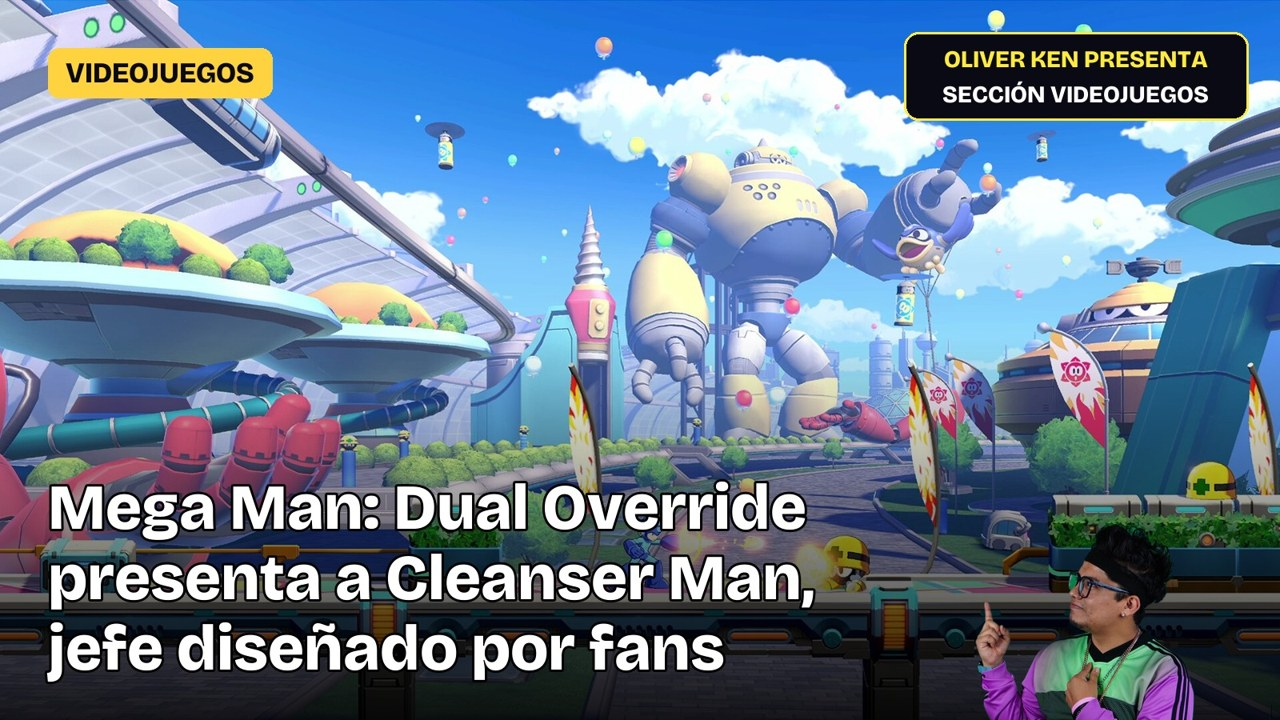
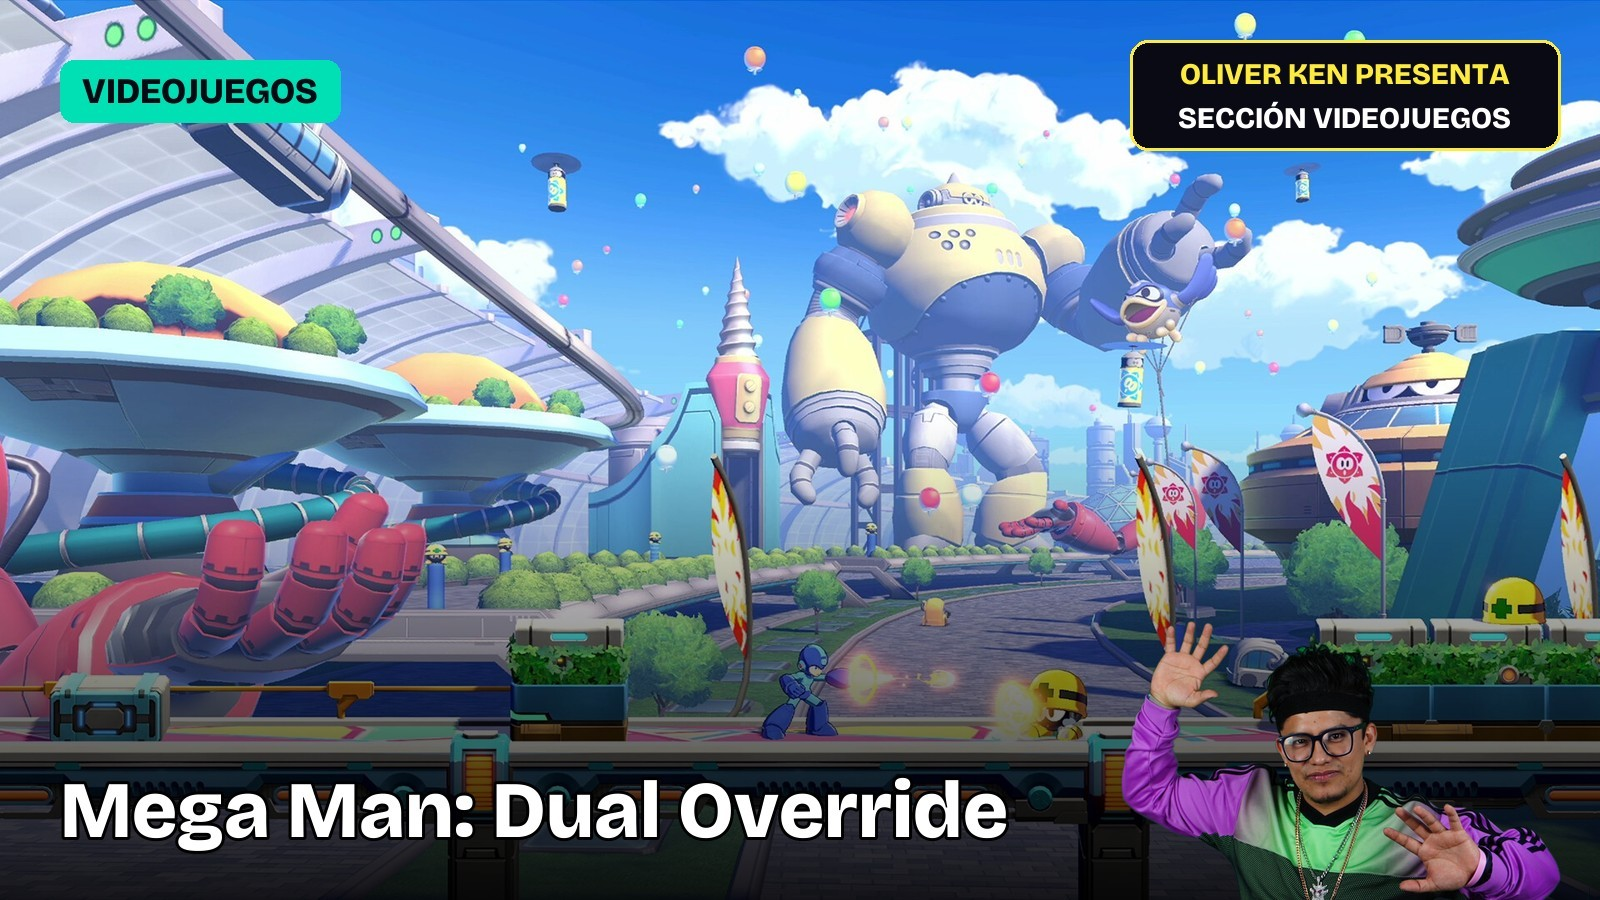
[bot] Portada — 2026-11-16 07:29

Changed region(s): [[0.0312, 0.6722, 0.6562, 0.9472], [0.6875, 0.6722, 1.0, 1.0], [0.0312, 0.0611, 0.2188, 0.1528]]

diff --git a/notas/cleanser-man-jefe-de-mega-man-disenado-por-fans-debuta-en-trailer-1116.html b/notas/cleanser-man-jefe-de-mega-man-disenado-por-fans-debuta-en-trailer-1116.html
@@ -10,8 +10,8 @@
 <meta name="twitter:description" content="Capcom presentó a Cleanser Man, el nuevo Robot Master de Mega Man: Dual Override, durante la TwitchCon 2026."><meta name="twitter:image" content="https://enelensayomedia.com/img/notas/cleanser-man-jefe-de-mega-man-disenado-por-fans-debuta-en-trailer-1116.jpg">
 <link href="https://fonts.googleapis.com/css2?family=Manrope:wght@400;600;800&family=Space+Mono:wght@400;700&display=swap" rel="stylesheet">
 <link rel="alternate" type="application/rss+xml" title="En El Ensayo Media" href="https://enelensayomedia.com/feed.xml">
-<script type="application/ld+json">{"@context": "https://schema.org", "@type": "NewsArticle", "headline": "Cleanser Man, jefe de Mega Man diseñado por fans, debuta en tráiler", "description": "Capcom presentó a Cleanser Man, el nuevo Robot Master de Mega Man: Dual Override, durante la TwitchCon 2026.", "datePublished": "2026-11-16T07:29:11", "author": {"@type": "Organization", "name": "En El Ensayo Media"}, "publisher": {"@type": "Organization", "name": "En El Ensayo Media", "url": "https://enelensayomedia.com"}, "image": ["https://enelensayomedia.com/img/notas/cleanser-man-jefe-de-mega-man-disenado-por-fans-debuta-en-trailer-1116.jpg"]}</script>
-<script type="application/ld+json">{"@context": "https://schema.org", "@type": "BreadcrumbList", "itemListElement": [{"@type": "ListItem", "position": 1, "name": "En El Ensayo Media", "item": "https://enelensayomedia.com/"}, {"@type": "ListItem", "position": 2, "name": "Reportaje", "item": "https://enelensayomedia.com/noticias.html"}, {"@type": "ListItem", "position": 3, "name": "Cleanser Man, jefe de Mega Man diseñado por fans, debuta en tráiler", "item": "https://enelensayomedia.com/notas/cleanser-man-jefe-de-mega-man-disenado-por-fans-debuta-en-trailer-1116.html"}]}</script>
+<script type="application/ld+json">{"@context": "https://schema.org", "@type": "NewsArticle", "headline": "Cleanser Man, jefe de Mega Man diseñado por fans, debuta en tráiler", "description": "Capcom presentó a Cleanser Man, el nuevo Robot Master de Mega Man: Dual Override, durante la TwitchCon 2026.", "datePublished": "2026-11-16T07:29:11", "author": {"@type": "Person", "name": "Oliver Ken"}, "publisher": {"@type": "Organization", "name": "En El Ensayo Media", "url": "https://enelensayomedia.com"}, "image": ["https://enelensayomedia.com/img/notas/cleanser-man-jefe-de-mega-man-disenado-por-fans-debuta-en-trailer-1116.jpg"]}</script>
+<script type="application/ld+json">{"@context": "https://schema.org", "@type": "BreadcrumbList", "itemListElement": [{"@type": "ListItem", "position": 1, "name": "En El Ensayo Media", "item": "https://enelensayomedia.com/"}, {"@type": "ListItem", "position": 2, "name": "Videojuegos", "item": "https://enelensayomedia.com/videojuegos.html"}, {"@type": "ListItem", "position": 3, "name": "Cleanser Man, jefe de Mega Man diseñado por fans, debuta en tráiler", "item": "https://enelensayomedia.com/notas/cleanser-man-jefe-de-mega-man-disenado-por-fans-debuta-en-trailer-1116.html"}]}</script>
 <style>
 :root{--tinta:#0b0812;--y:#FFEB3B;--i:#673AB7;--linea:#e4e1ea;--mono:'Space Mono',ui-monospace,monospace}
 *{box-sizing:border-box}body{margin:0;background:#fff;color:var(--tinta);font-family:Manrope,system-ui,sans-serif;line-height:1.7}
@@ -64,8 +64,8 @@ article blockquote{font-size:1.3rem;padding-left:16px}.cta{padding:16px}.video.v
 </style><meta name="google-adsense-account" content="ca-pub-5230441592261869"><script async src="https://pagead2.googlesyndication.com/pagead/js/adsbygoogle.js?client=ca-pub-5230441592261869" crossorigin="anonymous"></script><link rel="preconnect" href="https://fonts.gstatic.com" crossorigin><link href="https://fonts.googleapis.com/css2?family=Bricolage+Grotesque:opsz,wght@12..96,500;12..96,700;12..96,800&display=swap" rel="stylesheet"><link rel="manifest" href="/manifest.webmanifest"><meta name="theme-color" content="#0B0812"><link rel="apple-touch-icon" href="/img/icon-192.png"><link rel="stylesheet" href="/css/moderno.css?v=20261101d"></head><body>
 <header class="top"><div class="w"><a class="logo" href="https://enelensayomedia.com">EN EL ENSAYO MEDIA</a><nav><a href="https://enelensayomedia.com/#notas">Notas</a> <a href="https://enelensayomedia.com/#chisme">Chisme</a> <a href="https://enelensayomedia.com/#misterio">Misterio</a> <a href="https://enelensayomedia.com/#deporte">Deporte</a> <a href="https://enelensayomedia.com/#conciertos">Conciertos</a> <a href="https://enelensayomedia.com/#videos">Videos</a> <a href="https://enelensayomedia.com/podcast.html">Podcast</a> <a href="https://enelensayomedia.com/sesiones.html">Sesiones en vivo</a></nav><a class="tg" href="https://t.me/enelensayomedia" target="_blank" rel="noopener">Únete en Telegram</a></div></header>
 <div data-slot="cabecera" class="w" style="padding:8px 20px 0"></div>
-<div class="cabecera"><div class="w"><a class="kicker" href="https://enelensayomedia.com/noticias.html">Reportaje</a><h1>Cleanser Man, jefe de Mega Man diseñado por fans, debuta en tráiler</h1>
-<p class="dek">Capcom presentó a Cleanser Man, el nuevo Robot Master de Mega Man: Dual Override, durante la TwitchCon 2026.</p><div class="firma">Por <b>Redacción En el Ensayo Media</b> · 16 de noviembre de 2026 · 07:29</div></div></div>
+<div class="cabecera"><div class="w"><a class="kicker" href="https://enelensayomedia.com/videojuegos.html">Videojuegos</a><h1>Cleanser Man, jefe de Mega Man diseñado por fans, debuta en tráiler</h1>
+<p class="dek">Capcom presentó a Cleanser Man, el nuevo Robot Master de Mega Man: Dual Override, durante la TwitchCon 2026.</p><div class="firma">Por <b>Oliver Ken</b> · 16 de noviembre de 2026 · 07:29</div></div></div>
 <div class="pagina w"><article>
 <div class="share">Compartir: <a id="x" href="#" target="_blank" rel="noopener">X</a><a id="fb" href="#" target="_blank" rel="noopener">Facebook</a><a id="wa" href="#" target="_blank" rel="noopener">WhatsApp</a><a id="cp" href="#" onclick="return false">Copiar enlace</a></div>
 <figure class="hero"><picture><source type="image/webp" srcset="https://enelensayomedia.com/img/notas/cleanser-man-jefe-de-mega-man-disenado-por-fans-debuta-en-trailer-1116.webp"><img src="https://enelensayomedia.com/img/notas/cleanser-man-jefe-de-mega-man-disenado-por-fans-debuta-en-trailer-1116.jpg" alt="Cleanser Man, jefe de Mega Man diseñado por fans, debuta en tráiler" decoding="async"></picture><figcaption>Foto: Mega Man: Dual Override</figcaption></figure><p>Capcom presentó a Cleanser Man, el nuevo Robot Master de Mega Man: Dual Override, durante la TwitchCon 2026. El jefe fue elegido por la comunidad en un concurso de diseño que recibió 10.000 propuestas. Su tráiler y detalles de su historia llegaron a la luz el 15 de noviembre de 2026, marcando el quinto Robot Master anunciado para el título que llegará en primavera de 2027.</p><figure class='embed-social' style='margin:1.6rem auto;max-width:640px'><picture><source type="image/webp" srcset="/img/prensa/prensa_52452ded85b9.webp"><img src='/img/prensa/prensa_52452ded85b9.jpg' style='width:100%;border-radius:14px' alt="Imagen de prensa sobre: Cleanser Man, jefe de Mega Man diseñado por fans, debuta en tráiler — En El Ensayo Media (crédito: vandal.elespanol.com)" decoding="async"></picture><figcaption style='font-size:.82rem;opacity:.75;text-align:center;margin-top:.5rem'>Imagen: vandal.elespanol.com</figcaption></figure><blockquote>“Capcom dijo que lo eligió por la forma única en que se armó el concepto y por la originalidad de su diseño de color.”</blockquote><h2>La noticia</h2><p>Mega Man: Dual Override presenta a Cleanser Man, su Nuevo Jefe Diseñado por Fans, con Trailer y Detalles de su Historia. Capcom reveló a Cleanser Man como el ganador del Robot Master Design Contest de Mega Man: Dual Override. Lo presentó en la TwitchCon 2026. Nintendo Everything publicó la nota el 15 de noviembre de 2026 y dice que se lanzó un tráiler de Cleanser Man junto con el anuncio. Capcom dijo que lo eligió por la forma única en que se armó el concepto y por la originalidad de su diseño de color. El diseño es de la artista iregyuradabii. El equipo lo eligió entre seis finalistas. En la historia, Cleanser Man es una máquina de limpieza con un sensor de suciedad extremadamente sensible. Eso lo lleva a eliminar todo rastro de polvo y mugre. Su limpieza agresiva daña monumentos históricos y obras de arte. Tras la mala reacción del público, toma el control de una planta de procesamiento de residuos y contamina el ambiente a propósito, para que la humanidad valore la limpieza. El anuncio no detalla sus ataques ni el arma que Mega Man obtiene al vencerlo. Esos datos se dejan para una próxima presentación del juego.</p><h2>Un paso atrás</h2><p>El concurso pidió un Robot Master con un brazo de succión. Capcom dijo que recibió unas 10.000 propuestas, de las que 20 llegaron a la ronda final y 6 a la votación de los fans. Cleanser Man es el quinto Robot Master anunciado para Dual Override, y faltan tres por revelar. El juego sale en primavera de 2027 en Nintendo Switch 2 y Switch, según Nintendo Everything. Otro medio añade PS4, PS5, Xbox One, Xbox Series X|S y PC, y algunos solo dicen &#x27;2027&#x27;. Mega Man ha sido una saga icónica desde 1987, conocida por sus jefes innovadores y su combate por armas. Capcom ha mantenido la tradición de involucrar a la comunidad en el desarrollo, como demuestra este concurso que une a fans con la creación de enemigos para la serie.</p>
